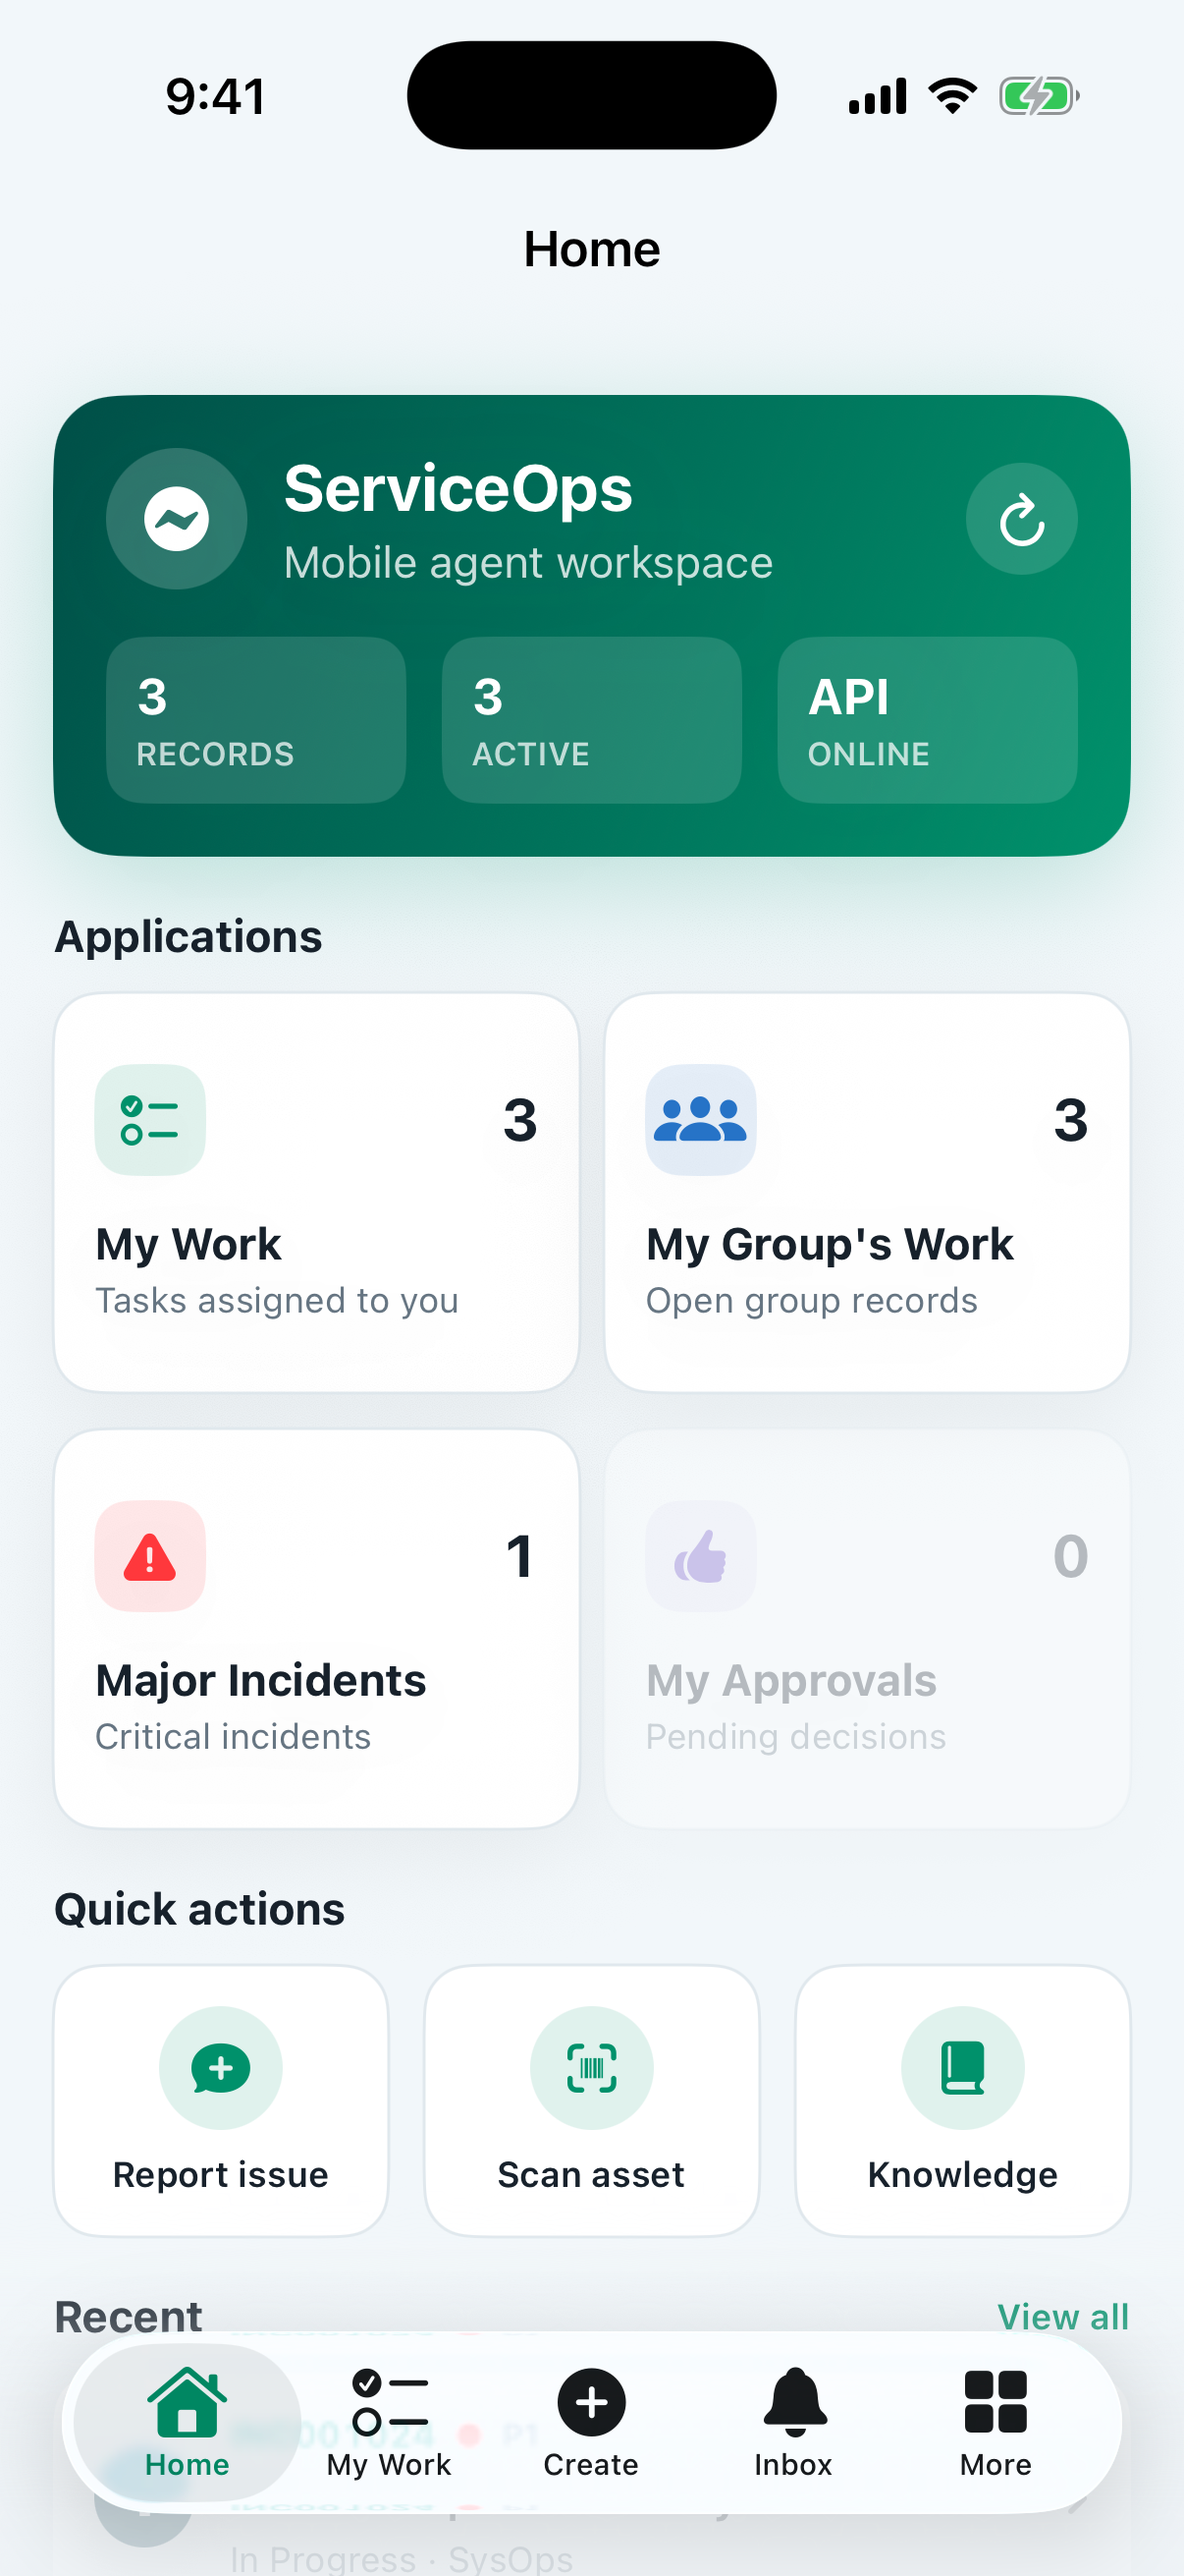
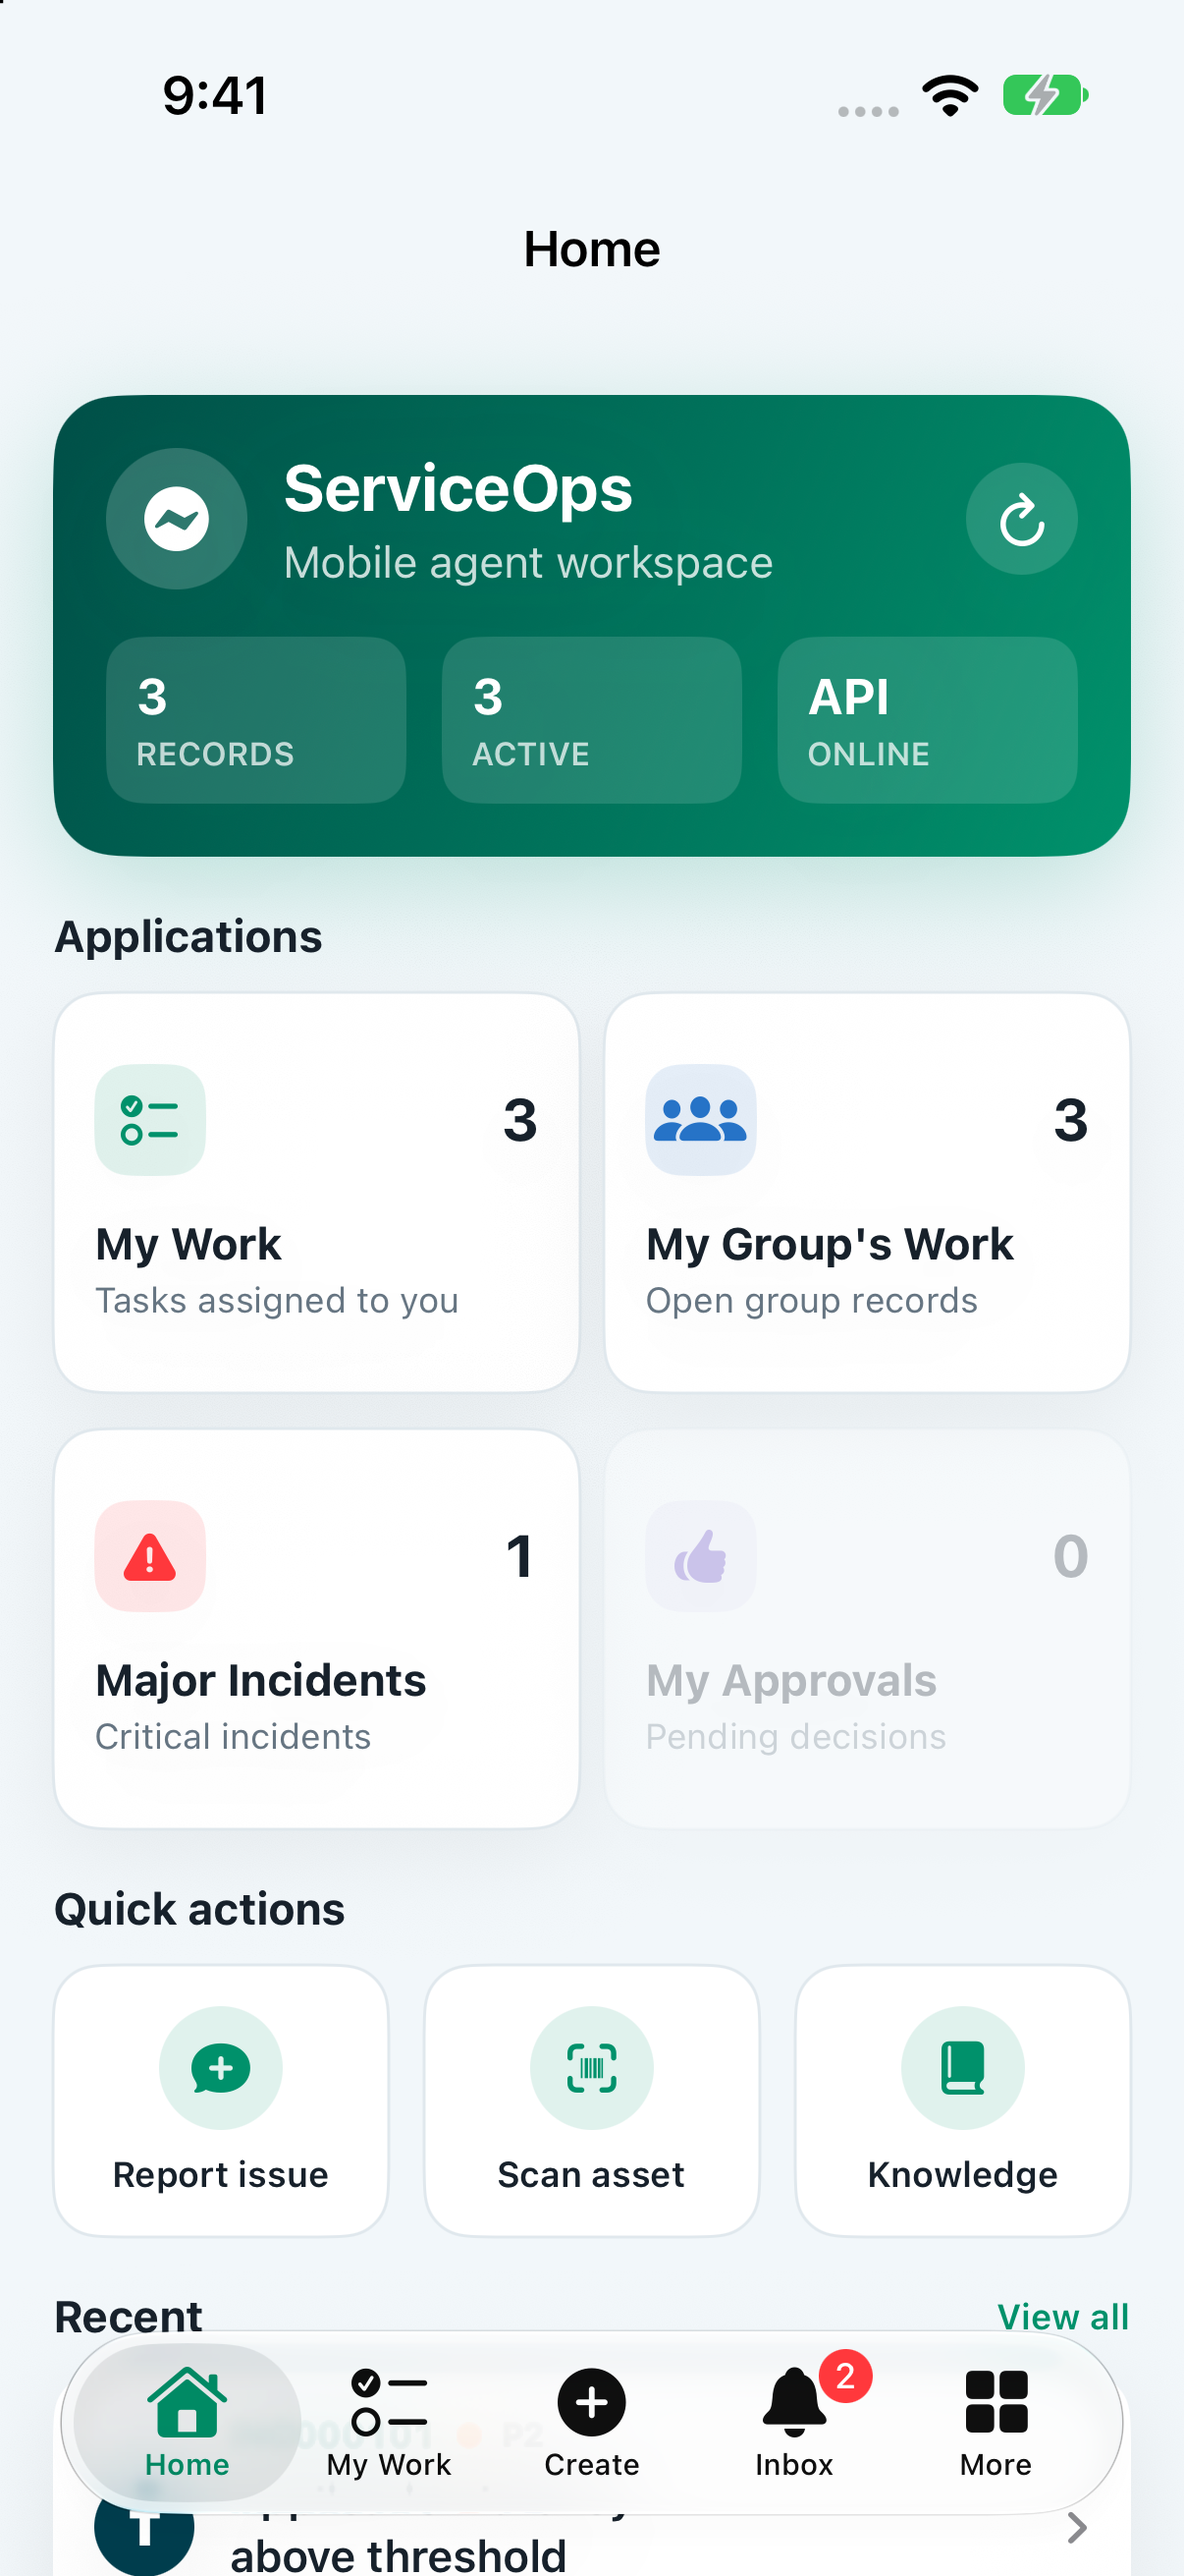
docs: expand screenshot gallery across core iOS workflows

diff --git a/README.md b/README.md
@@ -22,10 +22,21 @@ Current app version: **1.3.2 (build 8)**
 
 The current simulator captures use non-sensitive example records. Optional rack totals depend on the server response.
 
+### Everyday work
+
 <table>
-<tr><td width="50%"><img src="docs/screenshots/iphone-login.png" alt="ServiceOps sign-in screen"><br><sub>Server-aware sign-in</sub></td><td width="50%"><img src="docs/screenshots/iphone-more.png" alt="Grouped ServiceOps More screen"><br><sub>Infrastructure, account and connection navigation</sub></td></tr>
-<tr><td width="50%"><img src="docs/screenshots/iphone-assets.png" alt="Searchable server and asset inventory"><br><sub>Search and filter assets</sub></td><td width="50%"><img src="docs/screenshots/iphone-asset-detail.png" alt="Server details and physical location"><br><sub>Asset details, location and rack access</sub></td></tr>
-<tr><td width="50%"><img src="docs/screenshots/iphone-rack.png" alt="Numbered rack elevation with the selected server highlighted"><br><sub>Front/rear rack view and recorded capacity</sub></td><td width="50%"><img src="docs/screenshots/iphone-server.png" alt="ServiceOps server connection information"><br><sub>Endpoint, transport and API diagnostics</sub></td></tr>
+<tr><td width="50%"><img src="docs/screenshots/iphone-login.png" alt="ServiceOps login page"><br><sub>Server-aware sign-in</sub></td><td width="50%"><img src="docs/screenshots/iphone-home.png" alt="ServiceOps home dashboard"><br><sub>Home overview and quick actions</sub></td></tr>
+<tr><td width="50%"><img src="docs/screenshots/iphone-work.png" alt="ServiceOps ticket list"><br><sub>My Work: incidents and changes</sub></td><td width="50%"><img src="docs/screenshots/iphone-ticket.png" alt="ServiceOps ticket detail"><br><sub>Record details and status updates</sub></td></tr>
+<tr><td width="50%"><img src="docs/screenshots/iphone-create.png" alt="ServiceOps incident creation form"><br><sub>Create an incident</sub></td><td width="50%"><img src="docs/screenshots/iphone-inbox.png" alt="ServiceOps notification inbox"><br><sub>Ticket and approval notifications</sub></td></tr>
+</table>
+
+### Reference, infrastructure and connection
+
+<table>
+<tr><td width="50%"><img src="docs/screenshots/iphone-more.png" alt="ServiceOps grouped workspace menu"><br><sub>More: work, infrastructure and account</sub></td><td width="50%"><img src="docs/screenshots/iphone-approvals.png" alt="ServiceOps approval requests"><br><sub>Review and decide approvals</sub></td></tr>
+<tr><td width="50%"><img src="docs/screenshots/iphone-knowledge.png" alt="ServiceOps knowledge articles"><br><sub>Search operational knowledge</sub></td><td width="50%"><img src="docs/screenshots/iphone-assets.png" alt="ServiceOps searchable CMDB"><br><sub>CMDB: servers and assets</sub></td></tr>
+<tr><td width="50%"><img src="docs/screenshots/iphone-asset-detail.png" alt="ServiceOps asset details"><br><sub>Physical location, hardware and ownership</sub></td><td width="50%"><img src="docs/screenshots/iphone-rack.png" alt="ServiceOps rack elevation"><br><sub>Front/rear rack layout and selected server</sub></td></tr>
+<tr><td width="50%"><img src="docs/screenshots/iphone-server.png" alt="ServiceOps connection information"><br><sub>Endpoint, transport and API diagnostics</sub></td><td></td></tr>
 </table>
 
 ## Included capabilities
